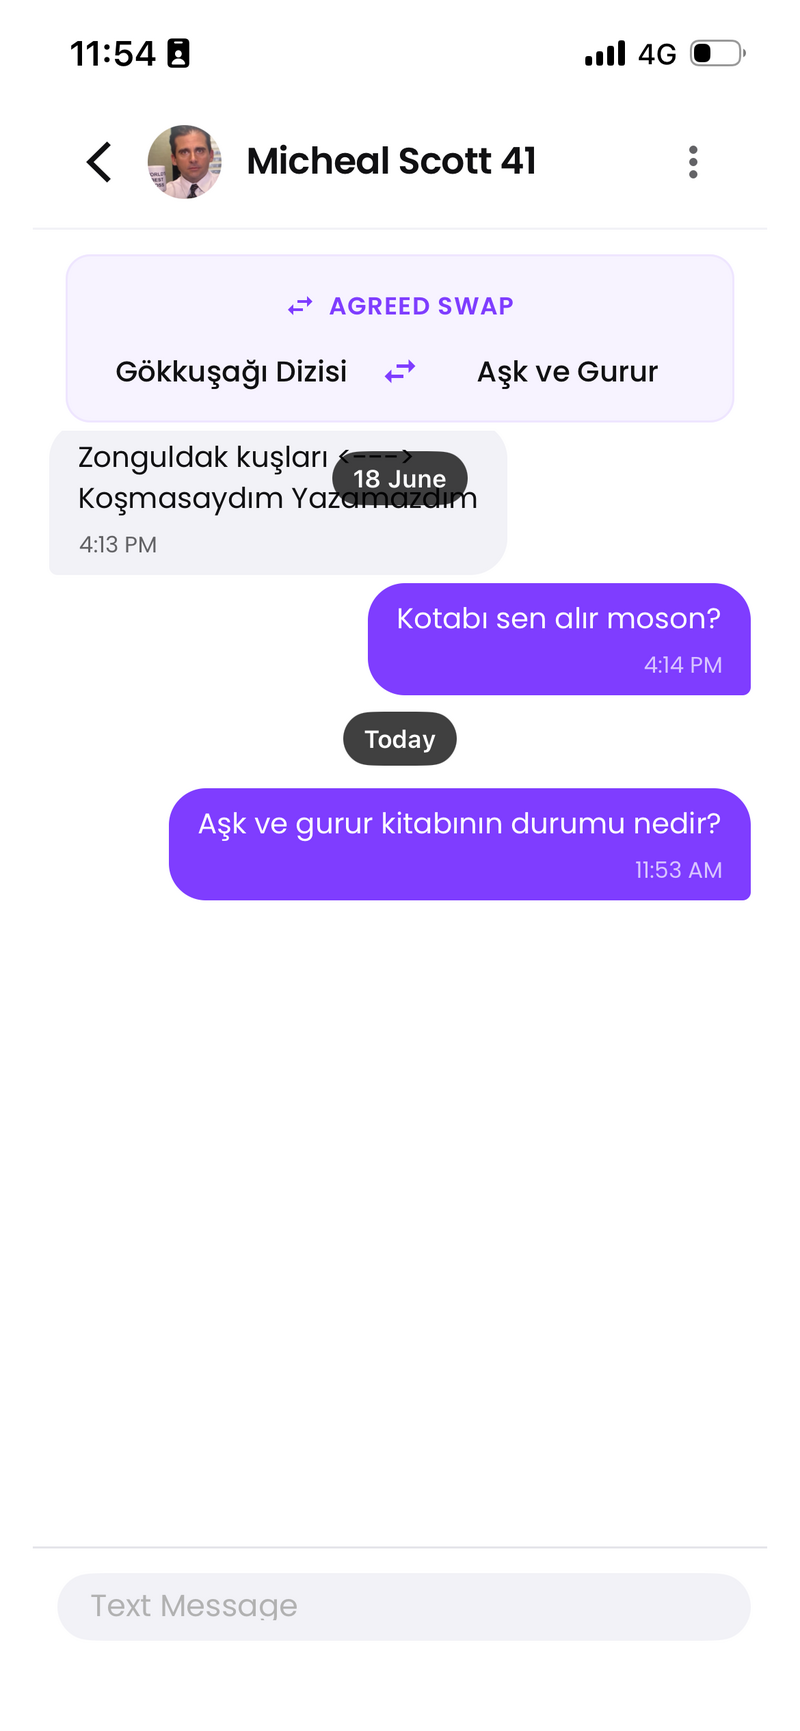
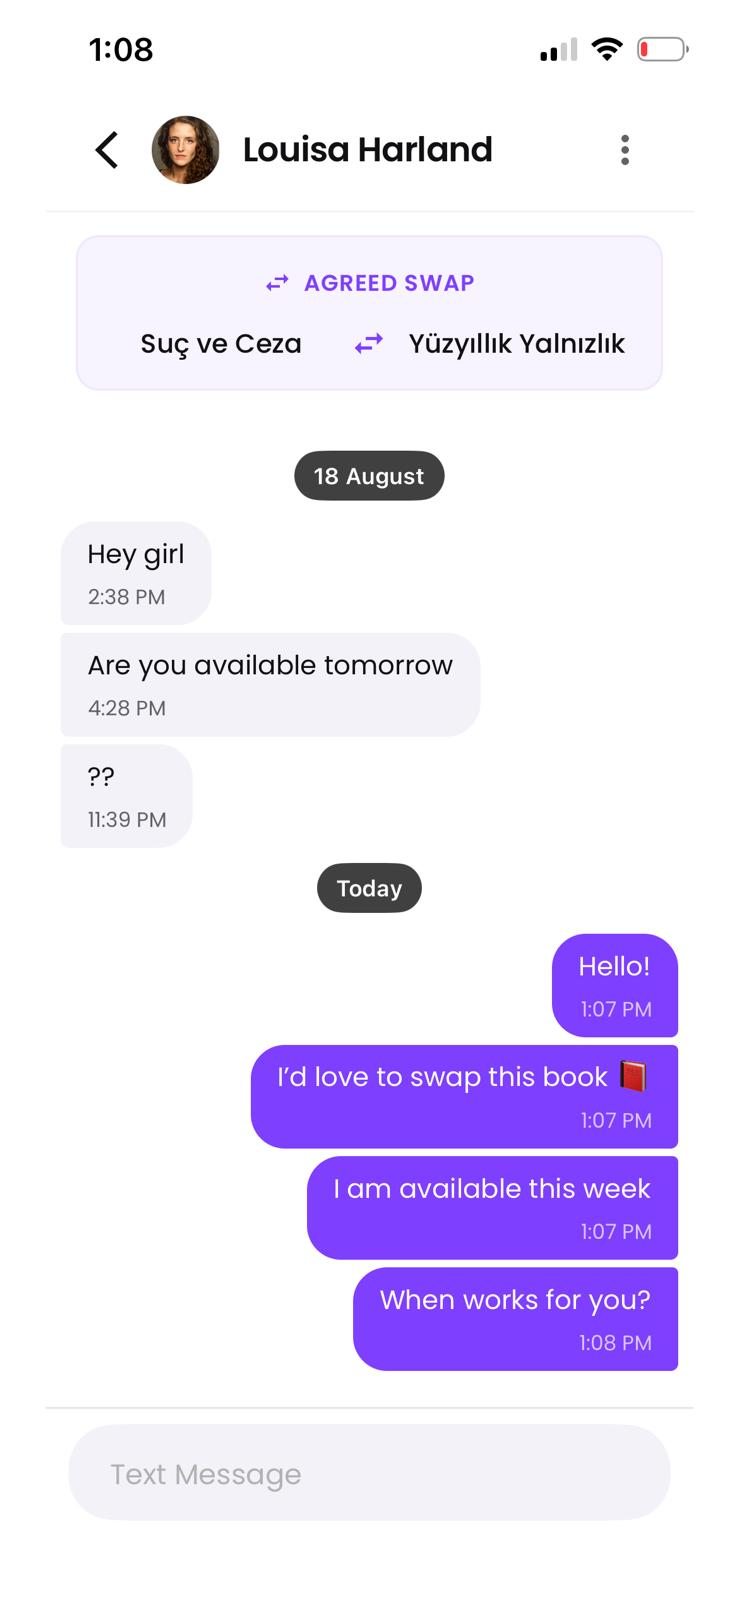
chore(marketing): align website copy with current MVP and launch flow

diff --git a/src/components/marketing/sections/FAQ/FAQ.tsx b/src/components/marketing/sections/FAQ/FAQ.tsx
@@ -11,19 +11,33 @@ const faqs = [
   },
   {
     q: "How do I get access?",
-    a: "We're inviting readers in small groups rather than opening to everyone at once. Join the waitlist and we'll email you when it's your turn.",
+    a: "BookSwap is currently preparing for launch on the App Store. Join the waitlist and we'll let you know when the app is available.",
   },
   {
     q: "Which platforms does it run on?",
-    a: "BookSwap is built with React Native and is rolling out on iOS first, with other platforms planned.",
+    a: "BookSwap is launching on iOS first. We plan to bring it to other platforms in the future.",
   },
   {
     q: "How does a swap actually happen?",
-    a: "You agree on a book-for-book trade, then arrange a handoff through in-app chat — most readers meet locally or find a drop-off that works for both sides.",
+    a: "Send a swap request for a book you want. Once the swap is accepted, chat with the other reader and arrange a handoff that works for both of you.",
   },
   {
     q: "What data do you collect?",
-    a: "Only what's needed to run BookSwap — matching you with nearby readers and managing your swaps. A full privacy policy will be published before general launch.",
+    a: (
+      <>
+        We collect the information needed to create your account, manage your
+        library and wishlist, facilitate book swaps, and provide in-app
+        messaging. See our{" "}
+        <a
+          href="/privacy"
+          className="underline"
+          style={{ color: "var(--primary)" }}
+        >
+          Privacy Policy
+        </a>{" "}
+        for details about what data we collect and how we use it.
+      </>
+    ),
   },
 ];
 

diff --git a/src/components/marketing/sections/Showcase/Showcase.tsx b/src/components/marketing/sections/Showcase/Showcase.tsx
@@ -19,15 +19,15 @@ const features: Feature[] = [
     id: "scan",
     title: "Instant Barcode Scan",
     description:
-      "Scan any book's barcode to add it to your shelf in seconds—no manual entry needed.",
+      "Scan any book's barcode to add it to your shelf in seconds no manual entry needed.",
     src: "/screenshots/barcode-scan.png",
     alt: "Barcode scanning screen showing instant book detail recognition",
   },
   {
     id: "search",
-    title: "Find Nearby Owners",
+    title: "Find Books to Swap",
     description:
-      "Search any title and immediately see how many local readers have it ready to swap.",
+      "Explore books, see how many readers own the ones you want, and send a swap request.",
     src: "/screenshots/search-owners.png",
     alt: "Search results screen displaying available book owners nearby",
   },
@@ -35,8 +35,8 @@ const features: Feature[] = [
     id: "library",
     title: "Wishlist & Library",
     description:
-      "Organize your personal shelf and keep a wishlist to automatically trigger swap matches.",
-    src: "/screenshots/receive-offer.png",
+      "Organize your library and keep track of the books you'd like to receive in a swap.",
+    src: "/screenshots/library.png",
     alt: "Personal library and wishlist management screen",
   },
   {

diff --git a/src/components/marketing/sections/Safety/Safety.tsx b/src/components/marketing/sections/Safety/Safety.tsx
@@ -6,11 +6,11 @@ import { fadeUp, staggerContainer, viewport } from "@/lib/motion";
 const tips = [
   {
     title: "Chat before you meet",
-    copy: "Get a feel for your swap partner in the app before agreeing on a time and place.",
+    copy: "Once a swap is accepted, chat with your swap partner to agree on the details of your exchange.",
   },
   {
     title: "Meet in public",
-    copy: "Coffee shops, libraries, and campus commons are easy, low-key spots for a handoff.",
+    copy: "Choose a public place for your handoff, such as a café, library, or other familiar spot.",
   },
   {
     title: "Trust your instincts",
@@ -48,8 +48,7 @@ export default function Safety() {
         className="mt-4 max-w-md text-sm sm:text-base"
         style={{ color: "var(--ink-soft)" }}
       >
-        BookSwap connects you with real readers nearby. A few habits make
-        every handoff smoother.
+        BookSwap connects readers who want to exchange books they've finished with books they want to read next.
       </motion.p>
 
       <div className="mt-12 w-full flex flex-col gap-4 text-left">

diff --git a/src/components/marketing/sections/HowItWorks/HowItWorks.tsx b/src/components/marketing/sections/HowItWorks/HowItWorks.tsx
@@ -8,12 +8,12 @@ export default function HowItWorks() {
     {
       n: "1",
       title: "List your book",
-      copy: "Add a book from your shelf with a cover, title, and a little detail about it.",
+      copy: "Search the catalog, find your book, and add it to your library in just a few taps.",
     },
     {
       n: "2",
       title: "Receive swap offers",
-      copy: "Other readers can offer books they want to exchange with you.",
+      copy: "Other readers can request your book and make an offer in return.",
     },
     {
       n: "3",
@@ -43,7 +43,7 @@ export default function HowItWorks() {
         variants={fadeUp}
         className="font-display mt-4 text-3xl sm:text-4xl font-medium text-[var(--ink)]"
       >
-        Three pages, one new book
+        Three steps, one new book
       </motion.h2>
 
       <div className="mt-14 w-full flex flex-col gap-6">

diff --git a/src/components/marketing/sections/Waitlist/Waitlist.tsx b/src/components/marketing/sections/Waitlist/Waitlist.tsx
@@ -26,7 +26,7 @@ export default function Waitlist() {
         variants={fadeUp}
         className="font-display mt-4 text-3xl sm:text-4xl font-medium text-[var(--ink)]"
       >
-        Save your spot on the shelf
+        Keep stories moving
       </motion.h2>
 
       <motion.p
@@ -34,8 +34,7 @@ export default function Waitlist() {
         className="mt-3 text-sm max-w-sm"
         style={{ color: "var(--ink-soft)" }}
       >
-        We&apos;re opening BookSwap to a small group of readers first, so
-        every early swap actually works. Get on the list to be one of them.
+        BookSwap is getting ready to launch on the App Store. Join the waitlist and we'll let you know when it's available.
       </motion.p>
 
       <motion.div variants={fadeUp} className="mt-1 w-full rounded-3xl p-6">

diff --git a/src/components/marketing/sections/About/About.tsx b/src/components/marketing/sections/About/About.tsx
@@ -34,10 +34,7 @@ export default function About() {
         className="mt-6 text-sm max-w-md"
         style={{ color: "var(--ink-soft)" }}
       >
-        BookSwap is a simple way for readers to exchange books they&apos;ve
-        finished and discover new ones from other shelves. List your books,
-        receive swap offers, chat with readers, and give every story a new
-        journey.
+        BookSwap is a simple way for readers to exchange books they&apos;ve finished and discover new ones from other readers. Search the catalog, add books to your library, send and receive swap requests, and chat with your swap partner to arrange the exchange.
       </motion.p>
 
       <motion.div

diff --git a/src/components/marketing/sections/Features/Features.tsx b/src/components/marketing/sections/Features/Features.tsx
@@ -12,8 +12,8 @@ export default function Features() {
     },
     {
       ch: "Chapter II",
-      title: "See who's nearby",
-      copy: "Every book shows how many readers already own it, so you know a swap is possible before you ask.",
+      title: "Find a swap",
+      copy: "See how many readers own a book before you send a swap request.",
     },
     {
       ch: "Chapter III",

diff --git a/src/components/marketing/layout/Navbar.tsx b/src/components/marketing/layout/Navbar.tsx
@@ -83,7 +83,7 @@ export default function Navbar() {
           href="#waitlist"
           className="btn-primary rounded-full px-4 py-2 text-sm font-medium whitespace-nowrap"
         >
-          Get Early Access
+          Join the Waitlist
         </a>
       </nav>
     </header>

diff --git a/src/components/marketing/sections/Hero/Hero.tsx b/src/components/marketing/sections/Hero/Hero.tsx
@@ -51,7 +51,7 @@ export default function Hero() {
           href="#waitlist"
           className="btn-primary rounded-xl px-6 py-3 font-medium"
         >
-          Get Early Access
+          Join the Waitlist
         </a>
       </motion.div>
 
